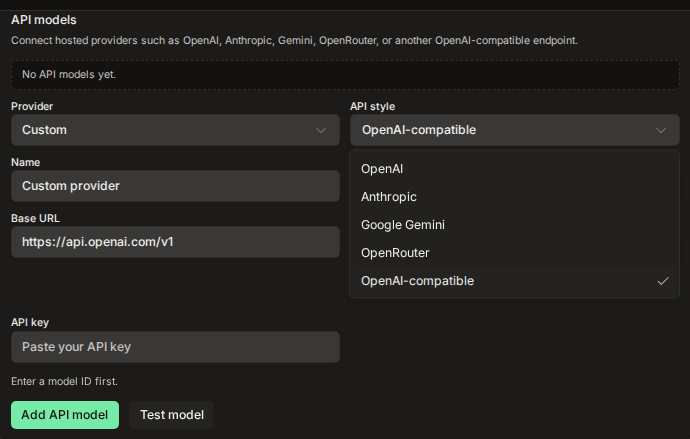
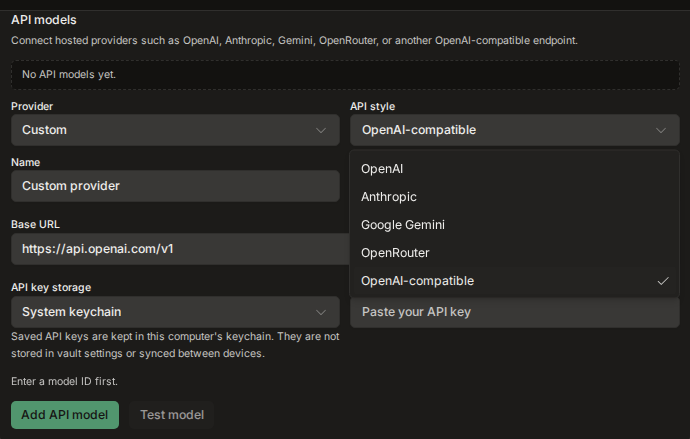
fix(settings): keep Custom env blank and reset named drafts
Custom API style no longer inherits OPENAI_API_KEY or example.com.
Named preset switches reset name and model id. Custom Gemini is
Google Gemini. Env storage with a blank var name blocks Add/Test.

QA: vitest presets + Settings form (style switch env, untouched URL,
named name reset, Custom Anthropic note). Playwright 12 review shots.
Tests/coverage: focused vitest 136 passed. Coverage gate on push.
Codacy: no new Critical/High in this form.
Localization: none — English only (C18).
PostHog: no new event.
ADRs: none.
Docs: ARCHITECTURE, review handoff, review shots.

Changed region(s): [[0.0, 0.4738, 1.0, 0.8292], [0.0, 0.8884, 0.1826, 0.9772], [0.213, 0.918, 0.3043, 0.9772]]

diff --git a/src/components/AiProviderSettings.tsx b/src/components/AiProviderSettings.tsx
@@ -83,12 +83,17 @@ function initialDraft(mode: ProviderMode): ProviderDraft {
   return draftFromProviderKind(kind)
 }
 
+function providerKindDisplayName(kind: AiModelProviderKind): string {
+  if (kind === 'gemini') return 'Google Gemini'
+  return aiModelProviderCatalogEntry(kind).name
+}
+
 function draftFromProviderKind(kind: AiModelProviderKind): ProviderDraft {
   const defaults = aiModelProviderCatalogEntry(kind)
   return {
     presetId: CUSTOM_PROVIDER_PRESET_ID,
     kind,
-    name: defaults.name,
+    name: providerKindDisplayName(kind),
     baseUrl: defaults.base_url,
     modelId: '',
     apiKeyStorage: defaults.api_key_storage,
@@ -120,7 +125,7 @@ function providerKindPatch(kind: AiModelProviderKind): ProviderPresetDraftPatch 
     baseUrl: defaults.baseUrl,
     modelId: '',
     apiKeyStorage: defaults.apiKeyStorage,
-    apiKeyEnvVar: defaults.apiKeyEnvVar,
+    apiKeyEnvVar: '',
   }
 }
 
@@ -183,6 +188,9 @@ function disabledActionReason(draft: ProviderDraft, mode: ProviderMode): string 
   if (!draft.modelId.trim()) return 'Enter a model ID first.'
   if (mode === 'api' && draft.apiKeyStorage === 'local_file' && !draft.apiKey.trim()) {
     return 'Paste an API key first.'
+  }
+  if (mode === 'api' && draft.apiKeyStorage === 'env' && !draft.apiKeyEnvVar.trim()) {
+    return 'Enter an env var name first.'
   }
   return null
 }
@@ -395,10 +403,15 @@ export function AiProviderSettings({ t, mode, providers, onChange }: AiProviderS
     setTestState('idle')
     setError(null)
   }
-  const applyPatch = (patch: ProviderPresetDraftPatch, clearApiKey: boolean, keepBaseUrl = false) => {
+  const applyPatch = (
+    patch: ProviderPresetDraftPatch,
+    clearApiKey: boolean,
+    keepBaseUrl = false,
+    nextTouched = touched,
+  ) => {
     resetTest()
     setKeyPageError(null)
-    setDraft((current) => mergeProviderPresetPatch(current, patch, touched, clearApiKey, keepBaseUrl))
+    setDraft((current) => mergeProviderPresetPatch(current, patch, nextTouched, clearApiKey, keepBaseUrl))
   }
   const updateDraft = (patch: Partial<ProviderDraft>) => {
     resetTest()
@@ -417,7 +430,11 @@ export function AiProviderSettings({ t, mode, providers, onChange }: AiProviderS
       return
     }
     const preset = providerPresetById(presetId)
-    if (preset) applyPatch(draftPatchForProviderPreset(preset), true, false)
+    if (preset) {
+      const cleared = { name: false, baseUrl: false, modelId: false }
+      setTouched(cleared)
+      applyPatch(draftPatchForProviderPreset(preset), true, false, cleared)
+    }
   }
   const disabledReason = disabledActionReason(draft, mode)
   const canSave = disabledReason === null
@@ -440,7 +457,7 @@ export function AiProviderSettings({ t, mode, providers, onChange }: AiProviderS
           name: current.name,
           baseUrl: current.baseUrl,
           modelId: '',
-          apiKeyEnvVar: current.kind === 'open_ai_compatible' ? '' : current.apiKeyEnvVar,
+          apiKeyEnvVar: '',
         }
       })
       setTouched({ name: false, baseUrl: false, modelId: false })
@@ -535,7 +552,7 @@ export function AiProviderSettings({ t, mode, providers, onChange }: AiProviderS
         ) : (
           <LabeledInput label={t('settings.aiProviders.name')} value={draft.name} onChange={(name) => updateTouchedField('name', name)} />
         )}
-        {draft.presetId === 'anthropic' ? (
+        {draft.presetId === 'anthropic' || draft.kind === 'anthropic' ? (
           <div
             className="col-span-2 rounded-md border border-border bg-background px-3 py-2 text-xs leading-5 text-muted-foreground"
             data-testid="ai-provider-anthropic-note"
@@ -558,7 +575,9 @@ export function AiProviderSettings({ t, mode, providers, onChange }: AiProviderS
             placeholder={modelIdPlaceholder(draft.kind)}
           />
         ) : null}
-        <LabeledInput label={t('settings.aiProviders.baseUrl')} value={draft.baseUrl} onChange={(baseUrl) => updateTouchedField('baseUrl', baseUrl)} />
+        <div className={mode === 'api' && draft.presetId === CUSTOM_PROVIDER_PRESET_ID ? 'col-span-2' : undefined}>
+          <LabeledInput label={t('settings.aiProviders.baseUrl')} value={draft.baseUrl} onChange={(baseUrl) => updateTouchedField('baseUrl', baseUrl)} />
+        </div>
         {mode === 'api' && draft.presetId === CUSTOM_PROVIDER_PRESET_ID ? null : (
           <LabeledInput
             label={t('settings.aiProviders.model')}

diff --git a/src/components/AiProviderSettings.test.tsx b/src/components/AiProviderSettings.test.tsx
@@ -299,4 +299,72 @@ describe('AiProviderSettings presets', () => {
 
     expect(screen.getByLabelText('API key env var')).toHaveValue('')
   })
+
+  it('keeps the Custom env var blank after switching API style', () => {
+    renderProviders()
+    selectProviderPreset('Custom')
+    fireEvent.click(screen.getByRole('combobox', { name: 'API style' }))
+    fireEvent.click(screen.getByRole('option', { name: 'Google Gemini' }))
+    fireEvent.click(screen.getByRole('combobox', { name: 'API style' }))
+    fireEvent.click(screen.getByRole('option', { name: 'OpenAI-compatible' }))
+
+    fireEvent.click(screen.getByRole('combobox', { name: 'API key storage' }))
+    fireEvent.click(screen.getByRole('option', { name: 'Read from env var' }))
+
+    expect(screen.getByLabelText('API key env var')).toHaveValue('')
+  })
+
+  it('blocks Add and Test when env storage has no var name', () => {
+    renderProviders()
+    selectProviderPreset('Custom')
+    fireEvent.change(screen.getByLabelText('Model ID'), { target: { value: 'lab-model' } })
+    fireEvent.click(screen.getByRole('combobox', { name: 'API key storage' }))
+    fireEvent.click(screen.getByRole('option', { name: 'Read from env var' }))
+
+    expect(screen.getByTestId('ai-provider-disabled-reason')).toHaveTextContent('Enter an env var name first.')
+    expect(screen.getByRole('button', { name: 'Add API model' })).toHaveAttribute('aria-disabled', 'true')
+  })
+
+  it('keeps an untouched Custom URL when the API style changes', () => {
+    renderProviders()
+    selectProviderPreset('Custom')
+
+    const baseUrl = screen.getByLabelText('Base URL')
+    expect(baseUrl).toHaveValue('https://api.openai.com/v1')
+    fireEvent.click(screen.getByRole('combobox', { name: 'API style' }))
+    fireEvent.click(screen.getByRole('option', { name: 'OpenAI' }))
+    fireEvent.click(screen.getByRole('combobox', { name: 'API style' }))
+    fireEvent.click(screen.getByRole('option', { name: 'OpenAI-compatible' }))
+
+    expect(baseUrl).toHaveValue('https://api.openai.com/v1')
+  })
+
+  it('resets an edited name when switching between named presets', () => {
+    renderProviders()
+    fireEvent.change(screen.getByLabelText('Name'), { target: { value: 'Lab OpenAI' } })
+    selectProviderPreset('Groq')
+
+    expect(screen.getByLabelText('Name')).toHaveValue('Groq')
+    expect(screen.getByLabelText('Model ID')).toHaveValue('openai/gpt-oss-120b')
+  })
+
+  it('shows the Anthropic note for Custom Anthropic API style', () => {
+    renderProviders()
+    selectProviderPreset('Custom')
+    fireEvent.click(screen.getByRole('combobox', { name: 'API style' }))
+    fireEvent.click(screen.getByRole('option', { name: 'Anthropic' }))
+
+    expect(screen.getByTestId('ai-provider-anthropic-note')).toHaveTextContent(
+      "Anthropic models won't show in the model picker until Rhizome supports Anthropic directly.",
+    )
+  })
+
+  it('names Custom Google Gemini style Google Gemini', () => {
+    renderProviders()
+    selectProviderPreset('Custom')
+    fireEvent.click(screen.getByRole('combobox', { name: 'API style' }))
+    fireEvent.click(screen.getByRole('option', { name: 'Google Gemini' }))
+
+    expect(screen.getByLabelText('Name')).toHaveValue('Google Gemini')
+  })
 })

diff --git a/src/lib/providerPresets.test.ts b/src/lib/providerPresets.test.ts
@@ -138,13 +138,13 @@ describe('provider preset table', () => {
     }
     const groq = draftPatchForProviderPreset(providerPresetById('groq')!)
     expect(mergeProviderPresetPatch(current, groq, {
-      name: true,
-      baseUrl: true,
+      name: false,
+      baseUrl: false,
       modelId: false,
     }, true)).toMatchObject({
       presetId: 'groq',
       kind: 'open_ai_compatible',
-      name: 'Lab OpenAI',
+      name: 'Groq',
       baseUrl: 'https://api.groq.com/openai/v1',
       modelId: 'openai/gpt-oss-120b',
       apiKeyEnvVar: 'GROQ_API_KEY',
@@ -152,7 +152,7 @@ describe('provider preset table', () => {
     })
   })
 
-  it('keeps an edited URL only when keepBaseUrl is set for Custom or API style', () => {
+  it('keeps the current Custom URL when keepBaseUrl is set, even if it was not edited', () => {
     const current = {
       presetId: CUSTOM_PROVIDER_PRESET_ID,
       kind: 'open_ai_compatible' as const,
@@ -170,7 +170,7 @@ describe('provider preset table', () => {
       name: 'OpenAI',
     }, {
       name: false,
-      baseUrl: true,
+      baseUrl: false,
       modelId: false,
     }, false, true)).toMatchObject({
       baseUrl: 'https://lab.example/v1',

diff --git a/src/components/ui/button.tsx b/src/components/ui/button.tsx
@@ -5,7 +5,7 @@ import { Slot } from "radix-ui"
 import { cn } from "@/lib/utils"
 
 const buttonVariants = cva(
-  "inline-flex items-center justify-center gap-2 whitespace-nowrap rounded-md text-sm font-medium transition-all disabled:pointer-events-none disabled:opacity-50 [&_svg]:pointer-events-none [&_svg:not([class*='size-'])]:size-4 shrink-0 [&_svg]:shrink-0 outline-none focus-visible:border-ring focus-visible:ring-2 focus-visible:ring-[var(--state-focus-ring)] aria-invalid:ring-destructive/20 dark:aria-invalid:ring-destructive/40 aria-invalid:border-destructive",
+  "inline-flex items-center justify-center gap-2 whitespace-nowrap rounded-md text-sm font-medium transition-all disabled:pointer-events-none disabled:opacity-50 aria-disabled:opacity-60 aria-disabled:cursor-not-allowed [&_svg]:pointer-events-none [&_svg:not([class*='size-'])]:size-4 shrink-0 [&_svg]:shrink-0 outline-none focus-visible:border-ring focus-visible:ring-2 focus-visible:ring-[var(--state-focus-ring)] aria-invalid:ring-destructive/20 dark:aria-invalid:ring-destructive/40 aria-invalid:border-destructive",
   {
     variants: {
       variant: {

diff --git a/src/lib/providerPresets.ts b/src/lib/providerPresets.ts
@@ -175,7 +175,7 @@ export function mergeProviderPresetPatch<T extends {
     ...current,
     ...patch,
     name: touched.name ? current.name : patch.name,
-    baseUrl: keepBaseUrl && touched.baseUrl ? current.baseUrl : patch.baseUrl,
+    baseUrl: keepBaseUrl ? current.baseUrl : patch.baseUrl,
     modelId: touched.modelId ? current.modelId : patch.modelId,
     apiKey: clearApiKey ? '' : current.apiKey,
   }

diff --git a/src/components/ui/button.destructive.test.tsx b/src/components/ui/button.destructive.test.tsx
@@ -14,5 +14,7 @@ describe('destructive button contrast', () => {
     expect(usesTranslucentDestructive).toBe(false)
     expect(button.className).toContain('hover:bg-destructive/95')
     expect(button.className).toContain('disabled:opacity-50')
+    expect(button.className).toContain('aria-disabled:opacity-60')
+    expect(button.className).toContain('aria-disabled:cursor-not-allowed')
   })
 })

diff --git a/docs/ARCHITECTURE.md b/docs/ARCHITECTURE.md
@@ -840,7 +840,7 @@ Large active notes are compacted into a head/tail body snapshot before they ente
 
 ### Direct Model Targets
 
-Tolaria also supports direct model targets for local servers and API providers. These targets are stored as app-level provider metadata and can be selected in Settings or the status bar alongside coding agents. `src/shared/aiModelProviderCatalog.json` is the shared source for provider defaults, local/API grouping, API-key environment placeholders, and runtime fallback base URLs; the renderer imports it through `aiTargets.ts`, and Tauri includes the same JSON in `ai_models.rs`. Settings API setup also prefills popular hosted providers from `src/lib/providerPresets.ts` (id, label, base URL, key-page URL, API style, per-vendor `apiKeyEnvVar`, and a real model id). Switching between named presets always takes the new row's URL, env var, and model id; an edited URL is kept only when entering Custom or changing API style inside Custom. After a save the draft rebuilds from the selected preset, not the shared catalog kind. Custom starts with a blank env var. A pasted API key is cleared on switch. Get API key sits under the key field and opens the official key page through `openExternalUrl`, with a copyable URL if the opener fails. Anthropic stays in the preset list with an inline “Not in Rhizome chat yet” note; Rhizome chat filtering is unchanged. Storage and kinds are unchanged. Direct model targets run in Chat mode: they receive the same note-context snapshot and conversation history, but they do not receive shell access. OpenAI-compatible direct targets can use Tolaria's narrow native `create_note` tool when an active vault is loaded; the tool calls the same create-only, active-vault-bounded note write command as the UI and emits tool events so the renderer refreshes and opens the created note. The backend `stream_ai_model` command supports OpenAI-compatible chat completions and Anthropic Messages-compatible calls, including Ollama, LM Studio, OpenRouter, OpenAI, Anthropic, Gemini, and custom compatible endpoints. Callers that need one plain reply with no tools — the Settings connection test (`test_ai_model_provider`) and chat titles (`complete_ai_model_text`, from `src/utils/completeAiModelText.ts`) — go through `ai_models::complete_text`. It streams OpenAI-compatible providers through `stream_chat_events_with` with no tools, and keeps the blocking Anthropic call until Anthropic streaming lands.
+Tolaria also supports direct model targets for local servers and API providers. These targets are stored as app-level provider metadata and can be selected in Settings or the status bar alongside coding agents. `src/shared/aiModelProviderCatalog.json` is the shared source for provider defaults, local/API grouping, API-key environment placeholders, and runtime fallback base URLs; the renderer imports it through `aiTargets.ts`, and Tauri includes the same JSON in `ai_models.rs`. Settings API setup also prefills popular hosted providers from `src/lib/providerPresets.ts` (id, label, base URL, key-page URL, API style, per-vendor `apiKeyEnvVar`, and a real model id). Switching between named presets always takes the new row's URL, env var, model id, and name. An edited URL is kept when entering Custom or changing API style inside Custom, including when the URL was never touched. After a save the draft rebuilds from the selected preset, not the shared catalog kind. Custom starts with a blank env var and keeps it blank when the API style changes. A pasted API key is cleared on switch. Get API key sits under the key field and opens the official key page through `openExternalUrl`, with a copyable URL if the opener fails. Anthropic stays in the preset list with an inline “Not in Rhizome chat yet” note; Rhizome chat filtering is unchanged. Storage and kinds are unchanged. Direct model targets run in Chat mode: they receive the same note-context snapshot and conversation history, but they do not receive shell access. OpenAI-compatible direct targets can use Tolaria's narrow native `create_note` tool when an active vault is loaded; the tool calls the same create-only, active-vault-bounded note write command as the UI and emits tool events so the renderer refreshes and opens the created note. The backend `stream_ai_model` command supports OpenAI-compatible chat completions and Anthropic Messages-compatible calls, including Ollama, LM Studio, OpenRouter, OpenAI, Anthropic, Gemini, and custom compatible endpoints. Callers that need one plain reply with no tools — the Settings connection test (`test_ai_model_provider`) and chat titles (`complete_ai_model_text`, from `src/utils/completeAiModelText.ts`) — go through `ai_models::complete_text`. It streams OpenAI-compatible providers through `stream_chat_events_with` with no tools, and keeps the blocking Anthropic call until Anthropic streaming lands.
 
 Provider secrets are not written to `settings.json`. Hosted API targets keep their key in the OS keychain (service `ai.rhizome.agent`, account = provider id; ADR-0185) through `provider_keys::ProviderKeys`, or reference an environment variable name. Keys still in the legacy app-data file `ai-provider-secrets.json` move into the keychain on first read (write, read back, then remove from the file; ADR-0183). That legacy file and `settings.json` (bridge token) are written through `secure_fs::write_owner_only_atomic` — Unix `0o600`, replace a symlink, do not follow it. Env-backed provider keys are resolved from the app process first, then from exported values in the user's zsh/bash startup files on Unix so GUI-launched sessions can still use shell-managed secrets. Local endpoints can omit authentication.
 

diff --git a/docs/plans/handoffs/2026-10-17-0321-cursor-grok-4-6-provider-preset-review-3.md b/docs/plans/handoffs/2026-10-17-0321-cursor-grok-4-6-provider-preset-review-3.md
@@ -1,0 +1,21 @@
+---
+session: 2026-10-17T03:21Z
+model: Grok 4.6 (Cursor)
+description: >-
+  PR #190 third review: Custom API style keeps a blank env var and the
+  current URL; named switches reset name; Custom Gemini is Google Gemini.
+commits: this slice
+---
+
+# Provider preset review 3
+
+**Origin:** Grok 4.6 (Cursor) · 2026-10-17
+
+Third HOLD on #190 at `177c4c6`. Custom API style no longer pulls
+`OPENAI_API_KEY` or `https://api.example.com/v1`. Named preset switches
+reset name and model id. Custom Anthropic shows the note. Custom Gemini
+is named Google Gemini.
+
+## C-numbers
+
+None.
